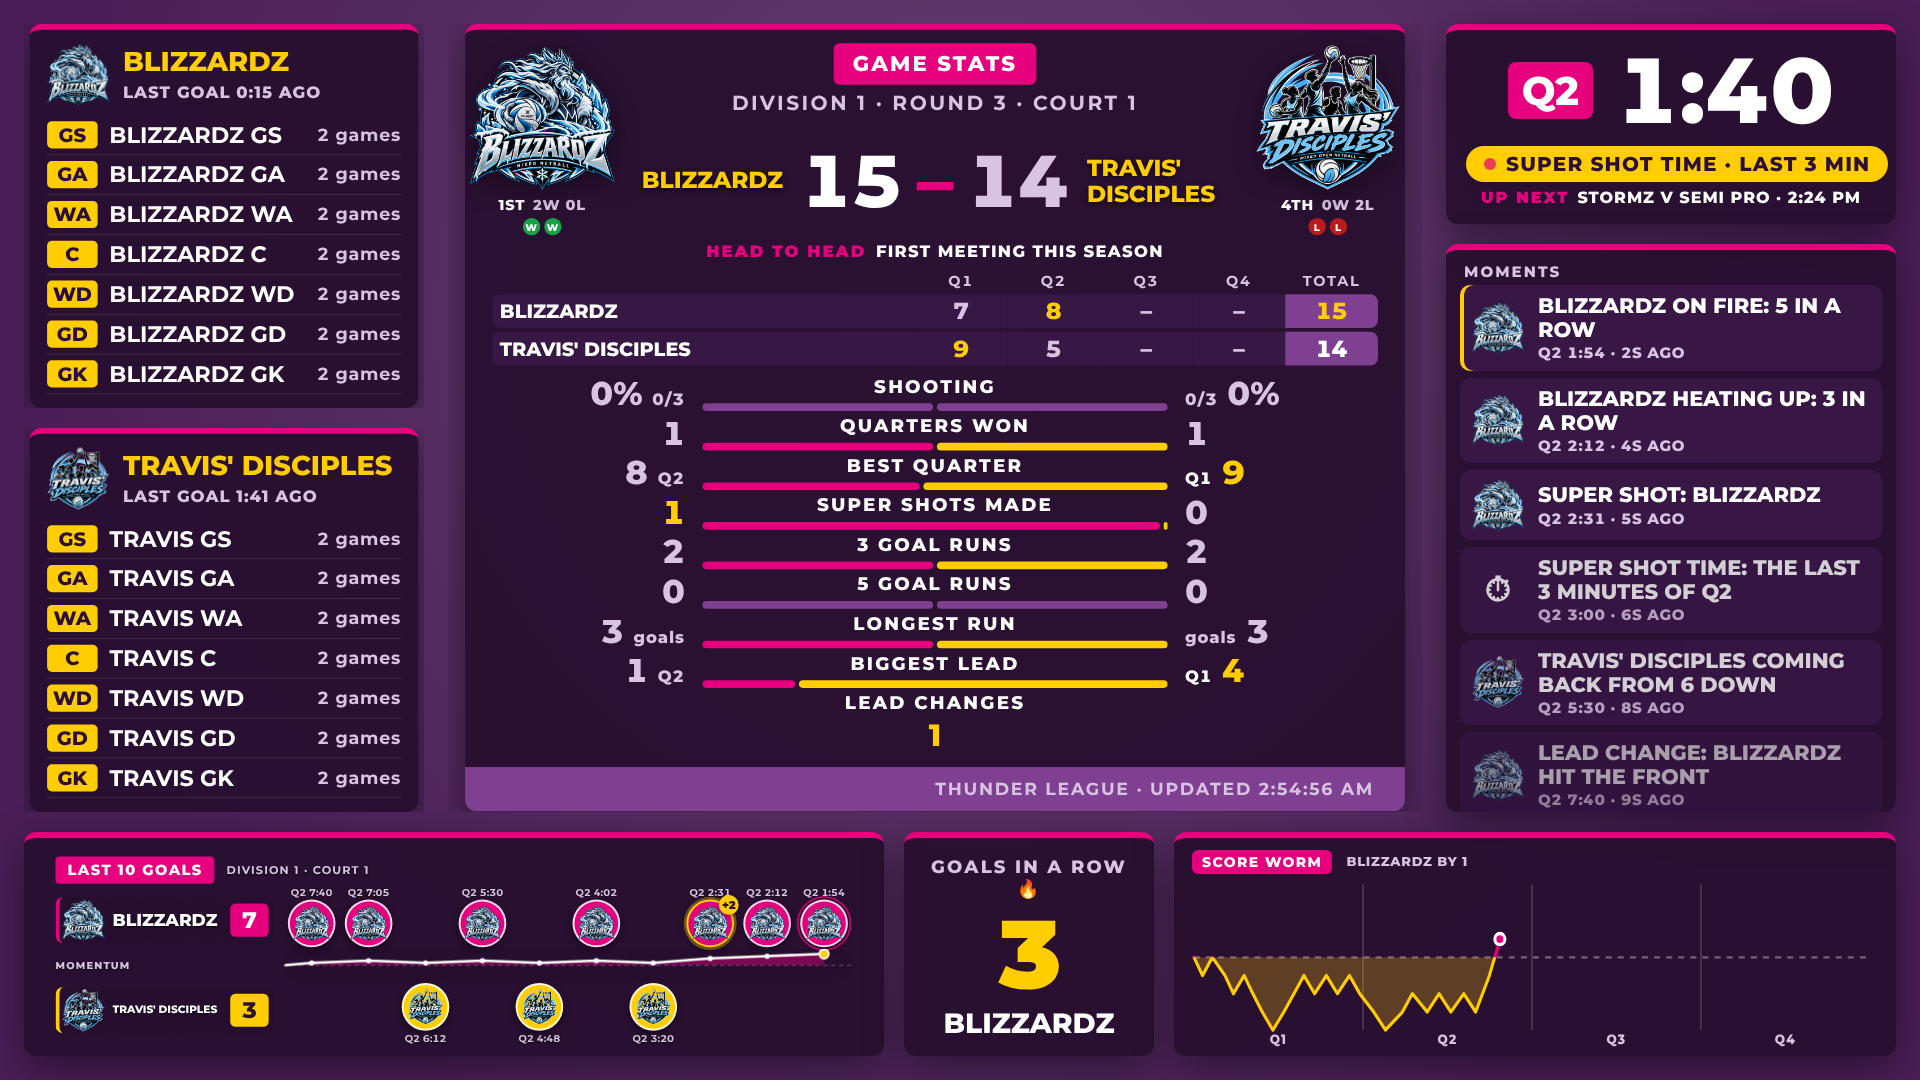
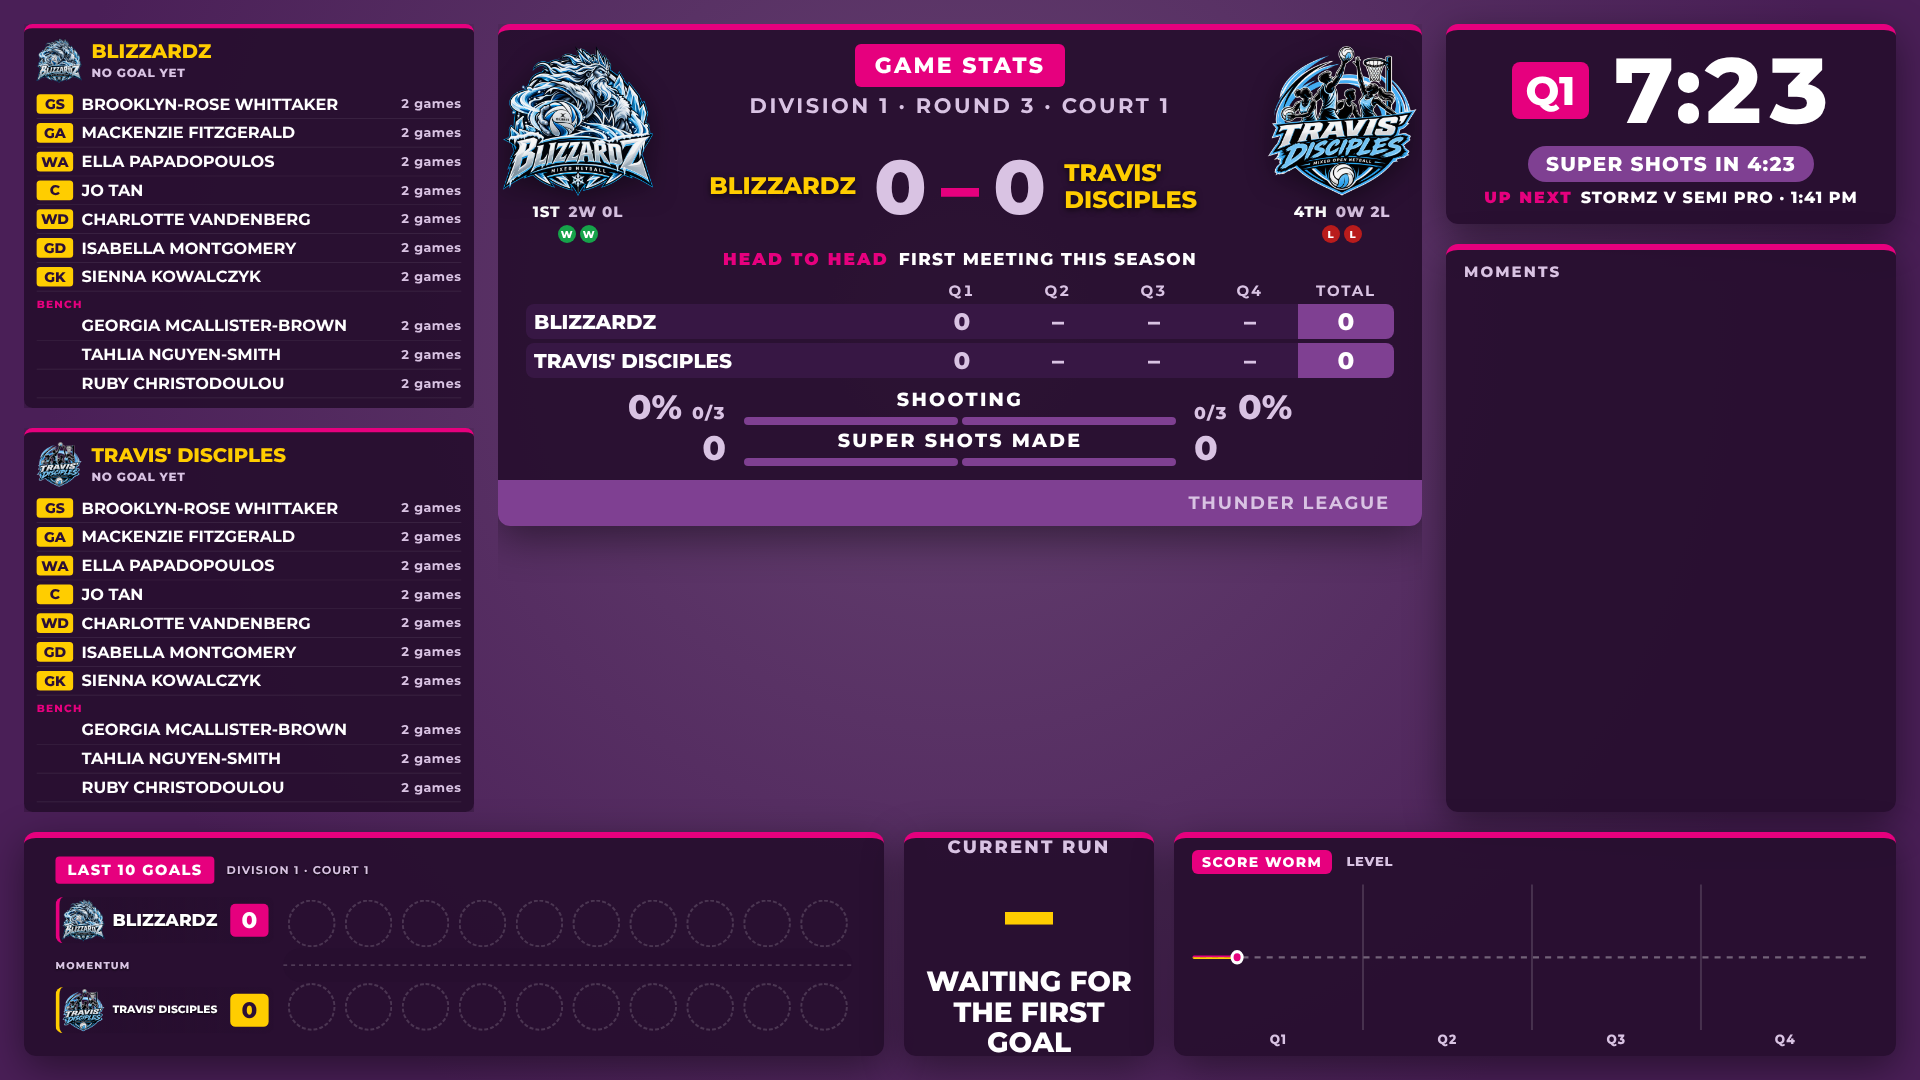
Commentator stats: wider team lists so names aren't cut short
The team lists' column is now 450 px, as wide as the moments column, so the
screen is balanced. A list too tall for its box (a bench) is still scaled down
to fit, but is now drawn wider so that once scaled it fills the box's width:
names get that room, the text stays the size it was. Game stats is 50 px
narrower, nothing in it smaller. New test: test/commentatorstats.test.js.

Claude-Session: https://claude.ai/code/session_019HSmiCHQcqpEX3iWNgYN7q

diff --git a/test/commentatorstats.test.js b/test/commentatorstats.test.js
@@ -1,0 +1,50 @@
+// The Commentator stats page's layout (commentatorstats.html): the team lists' column is as wide as the moments
+// column on the right, and a list too tall for its box (a bench of three, long names) is scaled down but still fills
+// its box's width, so the names get that room instead of being cut short (Matt, 2026-11-01).
+const test = require('node:test');
+const assert = require('node:assert/strict');
+const { startStudio } = require('./support/studio');
+
+let chromium = null;
+try { ({ chromium } = require('playwright')); } catch { /* not installed */ }
+
+test('team lists match the moments column and fill their width when scaled down', async t => {
+  if (!chromium) {
+    if (process.env.STUDIO_TEST_REQUIRE_BROWSER) assert.fail('playwright is not installed');
+    t.skip('playwright is not installed'); return;
+  }
+  const studio = await startStudio(t, { competition: 'Thunder League' });
+  await studio.until(async () => (await studio.get('/api/scoreboard')).gameId);
+  const browser = await chromium.launch({ executablePath: process.env.STUDIO_TEST_CHROMIUM || undefined });
+  t.after(() => browser.close());
+  const page = await (await browser.newContext({ viewport: { width: 1920, height: 1080 } })).newPage();
+  await page.route(url => !String(url).startsWith(studio.base), route => route.fulfill({ status: 200, body: '', contentType: 'text/css' }));
+  await page.goto(`${studio.base}/commentatorstats.html?refresh=0`);
+  await page.waitForFunction(() => document.querySelectorAll('#home .player').length >= 7, null, { timeout: 15000 });
+
+  const widths = await page.evaluate(() => ({ teams: document.getElementById('teams').offsetWidth, moments: document.getElementById('moments').offsetWidth }));
+  assert.equal(widths.teams, widths.moments, 'the team lists are as wide as the moments');
+
+  // A real line up: long names and a bench of three, so the list has to shrink to fit.
+  const fit = await page.evaluate(() => {
+    const names = ['Brooklyn-Rose Whittaker', 'Mackenzie Fitzgerald', 'Charlotte Vandenberg', 'Georgia McAllister-Brown'];
+    for (const side of ['home', 'away']) {
+      const list = document.querySelector(`#${side} .team__list`); const first = list.querySelector('.player');
+      list.querySelectorAll('.pname').forEach((n, i) => { n.textContent = names[i % names.length]; });
+      list.append(Object.assign(document.createElement('li'), { className: 'team__bench', textContent: 'Bench' }));
+      for (let i = 0; i < 3; i++) { const r = first.cloneNode(true); r.querySelector('.pname').textContent = names[i]; list.append(r); }
+    }
+    dispatchEvent(new Event('resize'));
+    return ['home', 'away'].map(id => {
+      const e = document.getElementById(id), box = e.parentElement.getBoundingClientRect(), r = e.getBoundingClientRect();
+      return { id, scale: Number(e.style.scale || 1), left: r.left - box.left, right: box.right - r.right, bottom: box.bottom - r.bottom,
+        cut: [...e.querySelectorAll('.pname')].filter(n => n.scrollWidth > n.clientWidth).map(n => n.textContent) };
+    });
+  });
+  for (const f of fit) {
+    assert.ok(f.scale < 1, `${f.id}: the longer list is scaled down (${f.scale})`);
+    assert.ok(Math.abs(f.left) < 1 && Math.abs(f.right) < 2, `${f.id}: fills its box's width (${f.left}, ${f.right})`);
+    assert.ok(f.bottom > -1, `${f.id}: fits its box's height (${f.bottom})`);
+    assert.deepEqual(f.cut, [], `${f.id}: no name is cut short`);
+  }
+});

diff --git a/public/commentatorstats.html b/public/commentatorstats.html
@@ -10,8 +10,9 @@
   /* This page's own layout. What it shares with other graphics is in graphics.css. */
   /* Commentator stats: the whole 1920 x 1080 frame, for a monitor at the commentary desk rather than the stream.
      Three columns: the team lists, the game stats (kept big: more stats will come, Matt, 2026-10-29), and the clock and
-     moments; across the bottom, the last 10 goals, the current run and the score worm. */
-  body { padding: 24px; display: grid; grid-template-columns: 400px minmax(0, 1fr) 450px; grid-template-rows: minmax(0, 1fr) 224px; gap: 20px 24px; align-items: stretch; justify-content: stretch;
+     moments, the two sides the same width so the screen is balanced; across the bottom, the last 10 goals, the current
+     run and the score worm. */
+  body { padding: 24px; display: grid; grid-template-columns: 450px minmax(0, 1fr) 450px; grid-template-rows: minmax(0, 1fr) 224px; gap: 20px 24px; align-items: stretch; justify-content: stretch;
     background: radial-gradient(circle at 50% 30%, var(--purple-dark-light, #3b1a52), var(--purple-dark, #1e0b2b) 75%); }
   body.see-through { background: transparent; }
   .col { min-width: 0; min-height: 0; display: flex; flex-direction: column; gap: 20px; }
@@ -22,6 +23,7 @@
 
   /* ── Left: team lists, home above away ─────────────────────────────────── */
   .teams .box { flex: 0 1 auto; }
+  .teams .box > .card { transform-origin: top left; } /* see fitTeam below */
   .team__meta { display: flex; align-items: center; flex-wrap: wrap; gap: 6px 12px; margin-top: 6px; color: var(--muted); font-size: 17px; font-weight: 800; letter-spacing: .06em; text-transform: uppercase; }
   .team__meta:empty { display: none; }
   .team__pos { color: var(--text); }
@@ -242,7 +244,21 @@
       const s = Math.min(1, box.clientHeight / h, box.clientWidth / w);
       e.style.scale = s < 1 ? String(Math.floor(s * 1000) / 1000) : '';
     }
-    const fitAll = () => ['home', 'away', 'card'].forEach(id => fitInto($(id)));
+    // A team list scaled down to fit its box's height is also drawn wider, so that once scaled it still fills the box's
+    // width: long names get that room instead of being cut short. Widening can make it shorter (fewer lines), so it's
+    // measured again a few times.
+    function fitTeam(e) {
+      const box = e.parentElement;
+      e.style.width = ''; e.style.scale = '';
+      for (let i = 0; i < 4; i++) {
+        const h = e.offsetHeight;
+        if (!h || !box.clientWidth) return;
+        const s = Math.min(1, box.clientHeight / h);
+        e.style.scale = s < 1 ? String(Math.floor(s * 1000) / 1000) : '';
+        e.style.width = s < 1 ? `${box.clientWidth / (Math.floor(s * 1000) / 1000)}px` : '';
+      }
+    }
+    const fitAll = () => { fitTeam($('home')); fitTeam($('away')); fitInto($('card')); };
     addEventListener('resize', fitAll);
     if (document.fonts) document.fonts.addEventListener('loadingdone', fitAll);
 
